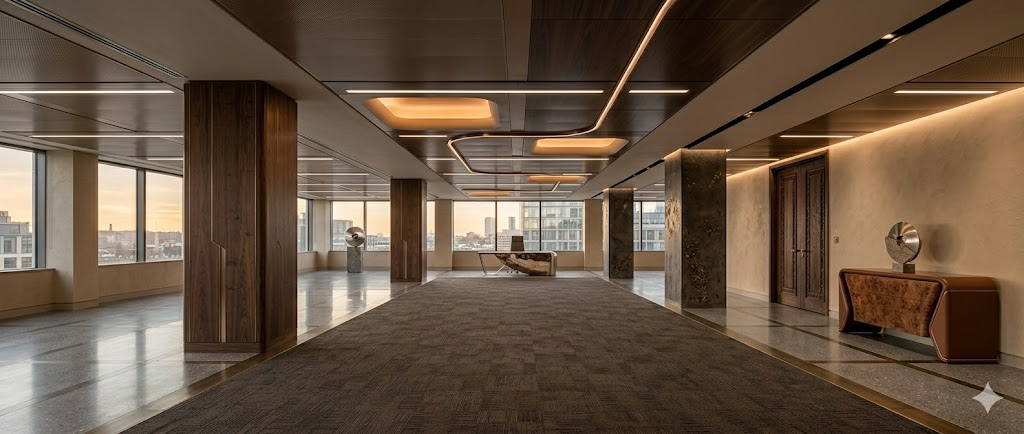
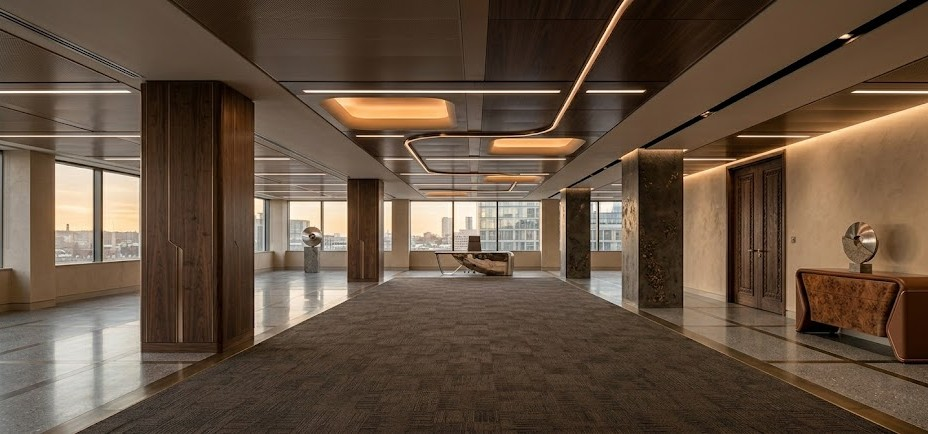
changes

diff --git a/src/app/projects/[slug]/page.tsx b/src/app/projects/[slug]/page.tsx
@@ -83,9 +83,9 @@ export default async function ProjectDetailPage({ params }: ProjectPageProps) {
           ))}
         </div>
 
-        <div className="absolute bottom-0 left-0 right-0 z-10">
+        <div className="absolute inset-0 z-10 flex flex-col justify-center">
           <Container>
-            <div className="pb-10">
+            <div className="max-w-2xl">
               <div className="flex items-center gap-3 mb-4">
                 <div className="h-px w-6 bg-oak" />
                 <span className="text-[9px] font-bold tracking-[.2em] uppercase text-oak">
@@ -93,26 +93,20 @@ export default async function ProjectDetailPage({ params }: ProjectPageProps) {
                 </span>
               </div>
               <h1
-                className="font-display font-normal text-white leading-[1.0] tracking-[-0.025em] mb-6"
-                style={{ fontSize: "clamp(3.2rem, 7vw, 6.5rem)" }}
+                className="font-display font-normal text-white leading-[1.05] tracking-[-0.02em] mb-6"
+                style={{ fontSize: "clamp(2.8rem, 6vw, 5.5rem)" }}
               >
-                {project.title.split(" ").slice(0, -1).join(" ")}{" "}
-                <em className="italic font-light">
-                  {project.title.split(" ").slice(-1)[0]}
-                </em>
+                {project.title}
               </h1>
-              {project.status && (
-                <div className="inline-flex items-center gap-2 border border-white/15 bg-white/8 px-3 py-1.5 rounded-sm">
-                  <span
-                    className={`w-1.5 h-1.5 rounded-full ${
-                      project.status === "completed" ? "bg-green-500" : "bg-oak"
-                    }`}
-                  />
-                  <span className="text-[9px] font-bold tracking-[.14em] uppercase text-white/70">
-                    {formatStatus(project.status)}
-                  </span>
-                </div>
-              )}
+              <p
+                className="max-w-md text-sm leading-7 text-white/55 md:text-base md:leading-8"
+                style={{ borderLeft: "1px solid rgba(255,255,255,0.15)", paddingLeft: 16 }}
+                dangerouslySetInnerHTML={{
+                  __html: project.shortDescription
+                    .replace(/<span[^>]*>/g, "")
+                    .replace(/<\/span>/g, ""),
+                }}
+              />
             </div>
           </Container>
         </div>
@@ -259,23 +253,23 @@ export default async function ProjectDetailPage({ params }: ProjectPageProps) {
                       .replace(/<\/span>/g, ""),
                   }}
                 />
-                <div style={{ display: "flex", flexWrap: "wrap", gap: 8 }}>
-                  {project.services.map((s) => (
-                    <span
-                      key={s}
-                      style={{
-                        border: "1px solid rgba(139,94,60,0.28)",
-                        background: "rgba(139,94,60,0.05)",
-                        color: "#8B5E3C",
-                        padding: "5px 13px",
-                        fontSize: "9px",
-                        fontWeight: 700,
-                        letterSpacing: ".12em",
-                        textTransform: "uppercase",
-                        borderRadius: 2,
-                      }}
-                    >
-                      {serviceLabels[s]}
+                <div style={{ display: "flex", flexWrap: "wrap", alignItems: "center", gap: 10 }}>
+                  {project.services.map((s, i) => (
+                    <span key={s} style={{ display: "inline-flex", alignItems: "center", gap: 10 }}>
+                      {i > 0 && (
+                        <span style={{ width: 3, height: 3, borderRadius: "50%", background: "rgba(139,94,60,0.4)" }} />
+                      )}
+                      <span
+                        style={{
+                          color: "#8B5E3C",
+                          fontSize: "9px",
+                          fontWeight: 700,
+                          letterSpacing: ".16em",
+                          textTransform: "uppercase",
+                        }}
+                      >
+                        {serviceLabels[s]}
+                      </span>
                     </span>
                   ))}
                 </div>

diff --git a/src/components/sections/PageHero.tsx b/src/components/sections/PageHero.tsx
@@ -57,13 +57,14 @@ export function PageHero({
         </>
       )}
 
-      {/* ── Content ── */}
+      {/* ── Content ──
+          CHANGED: was items-end (text glued to the bottom edge, leaving a large
+          unbalanced gap above). Now items-center so the block sits with even
+          breathing room above and below, regardless of how tall min-h is. */}
       <Container
         className={[
           "relative flex",
-          isCinematic
-            ? "min-h-[72svh] items-end pb-16 md:pb-20"
-            : "min-h-[58svh] items-end pb-14",
+          isCinematic ? "min-h-[72svh] items-center" : "min-h-[58svh] items-center",
         ].join(" ")}
       >
         <div className={isCinematic ? "max-w-4xl" : "max-w-5xl"}>
